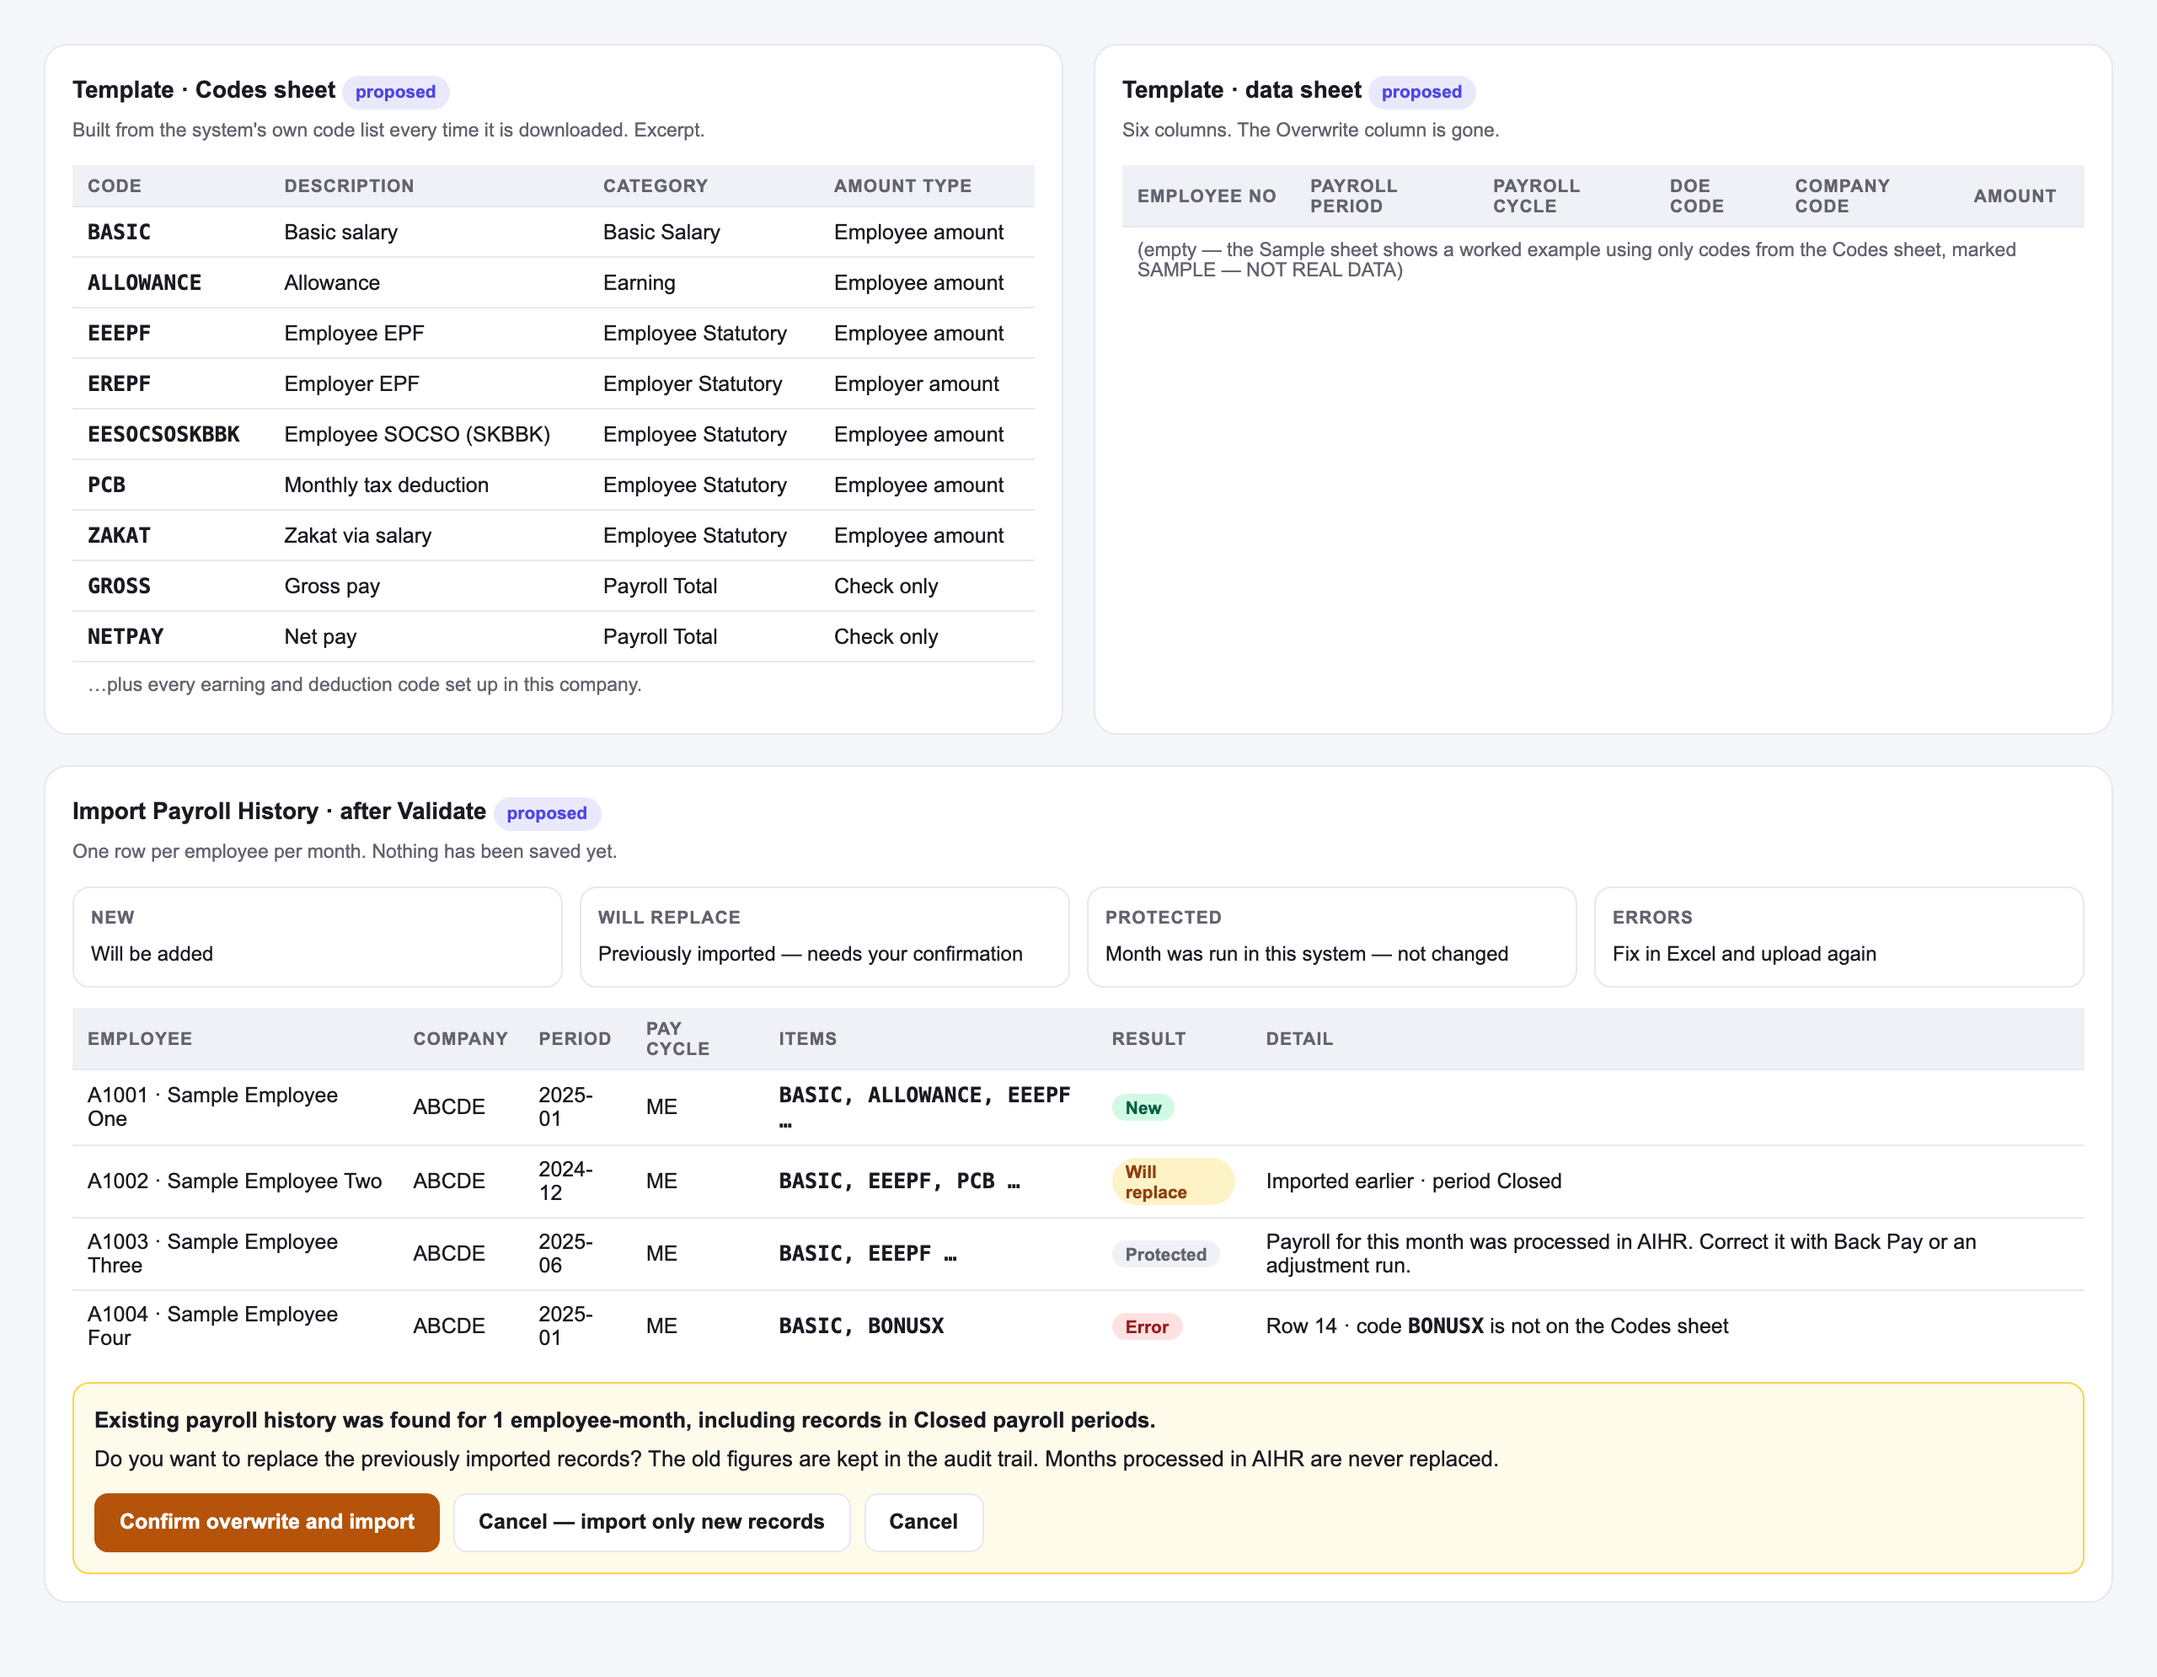
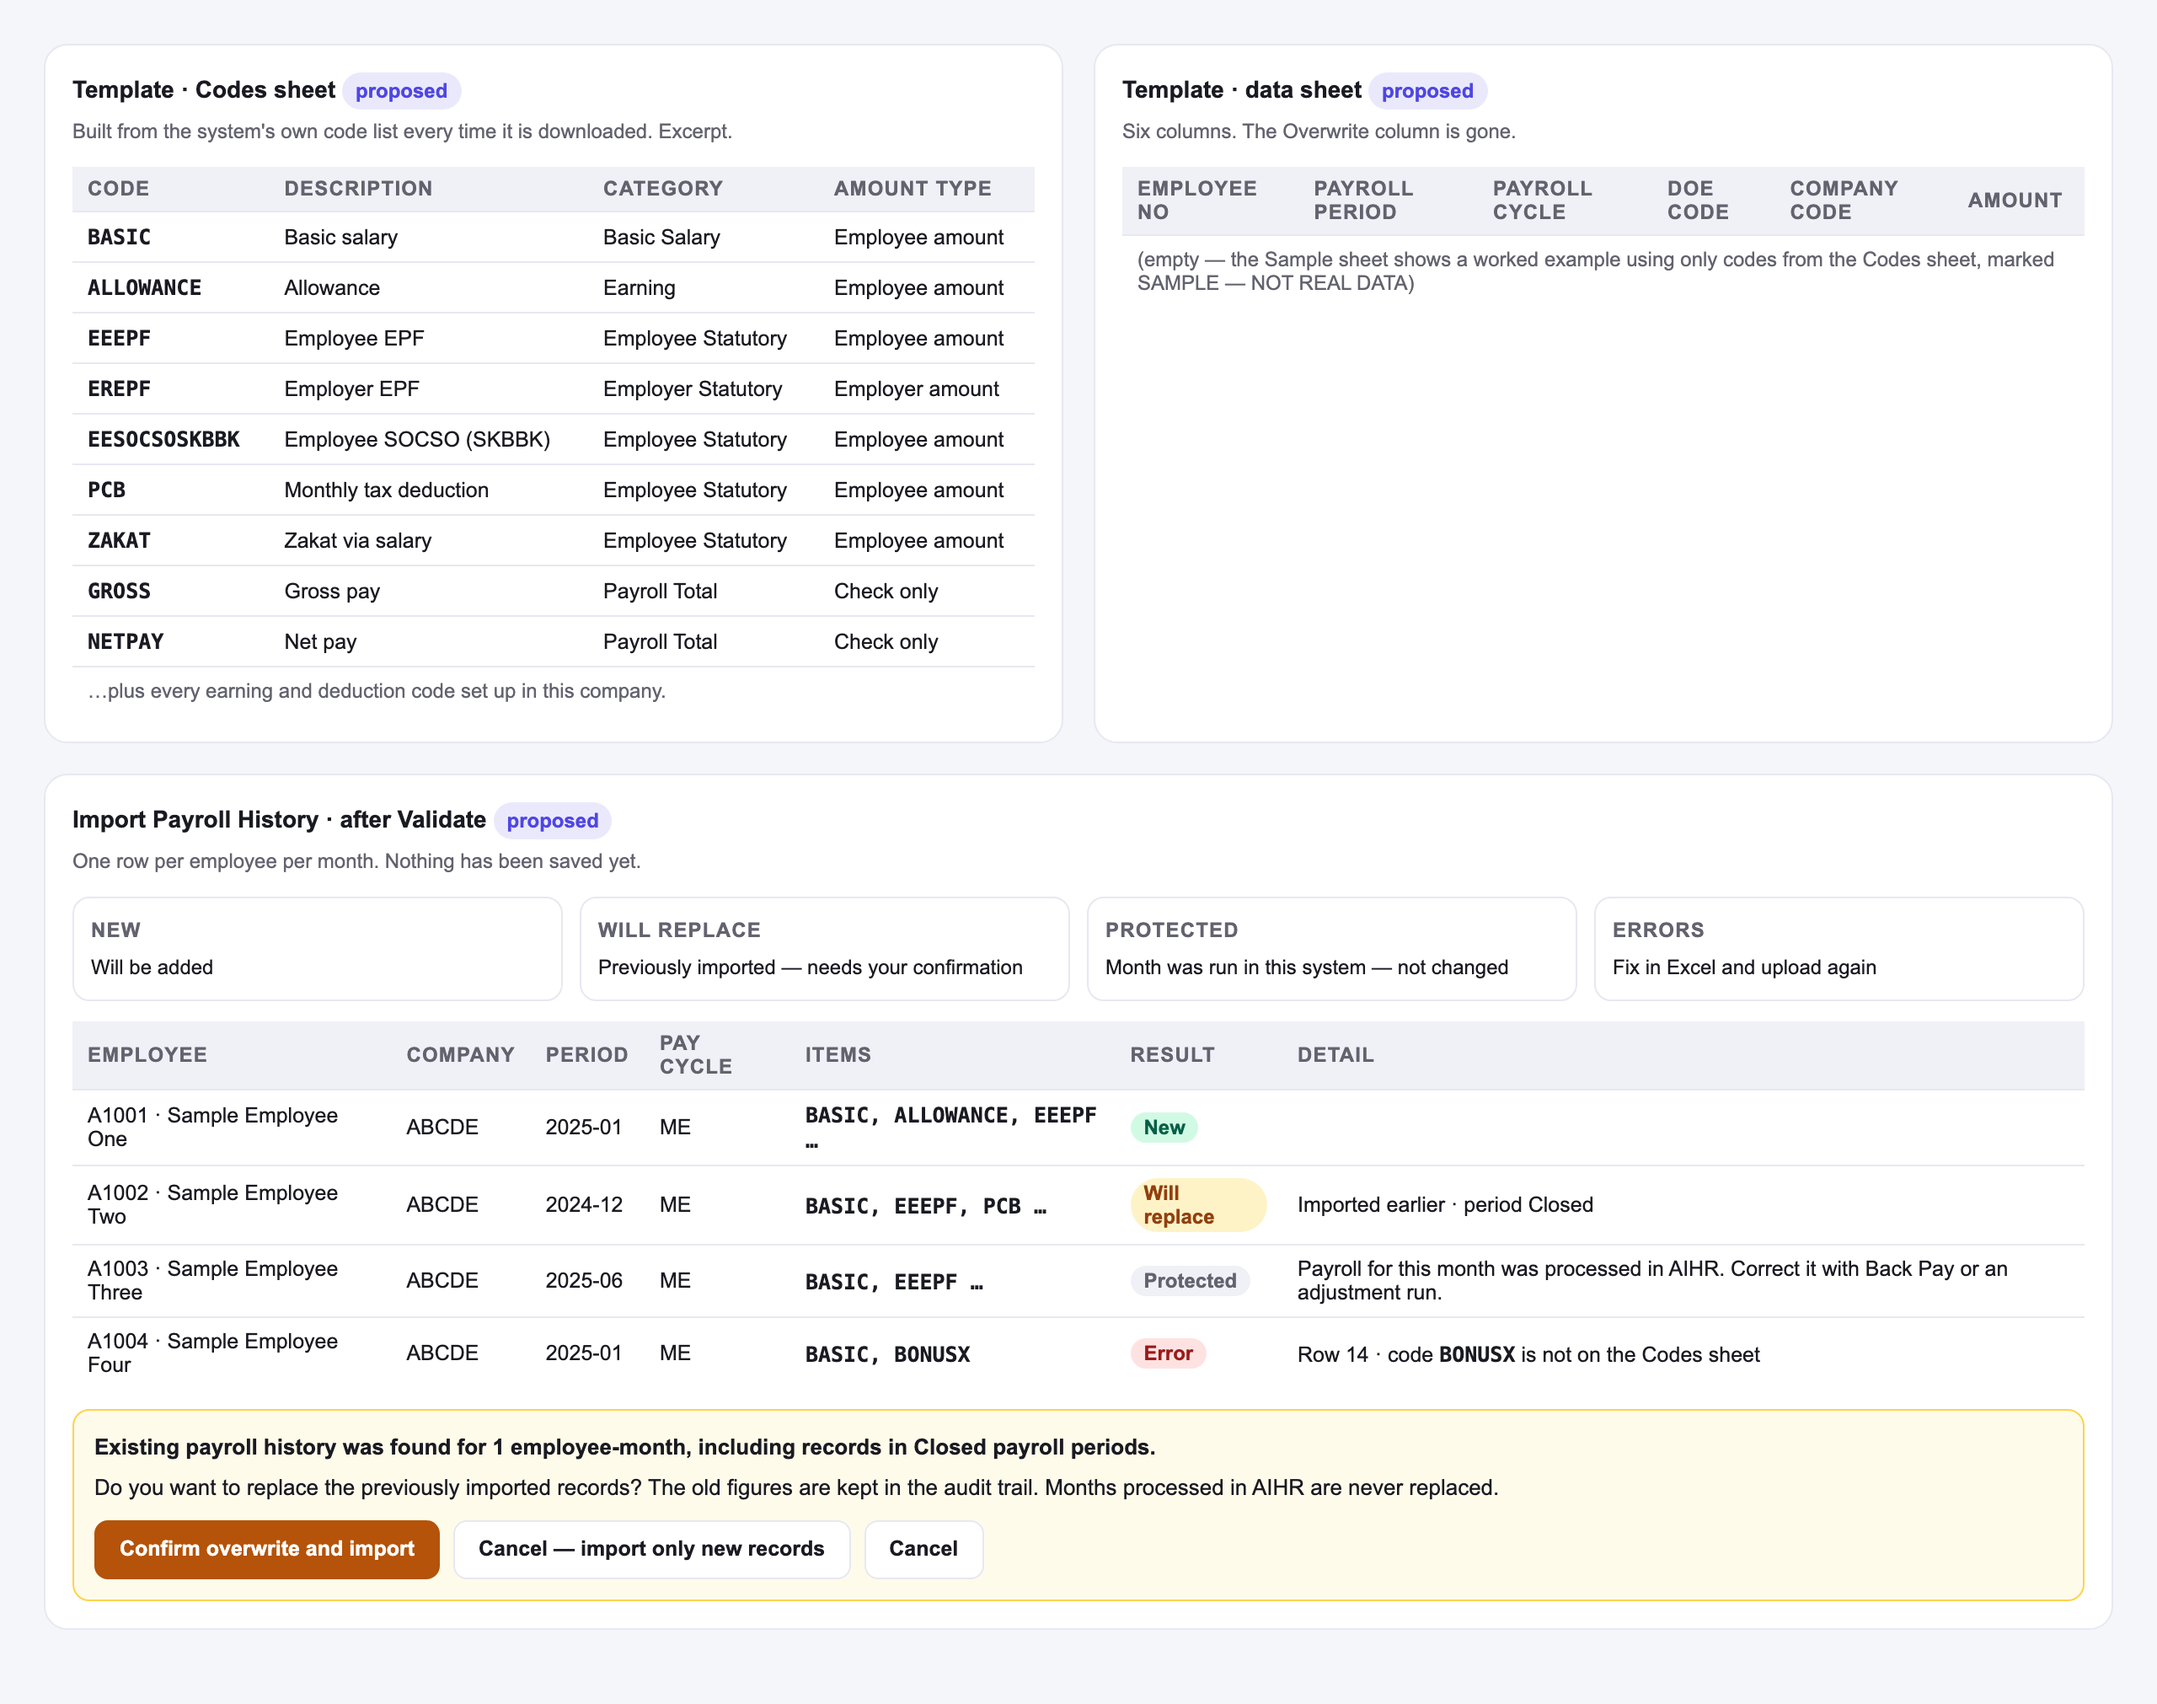
Raise mockup label sizes to the 12px floor

diff --git a/docs/mockups/d28501b8-history-import.html b/docs/mockups/d28501b8-history-import.html
@@ -11,13 +11,13 @@
        font:13px/1.5 ui-sans-serif,-apple-system,"Segoe UI",Roboto,Arial,sans-serif}
   .card{background:var(--card);border:1px solid var(--border);border-radius:14px;padding:16px;margin-bottom:18px}
   h2{font-size:14px;margin:0 0 4px}
-  .sub{font-size:11.5px;color:var(--mf);margin:0 0 12px}
+  .sub{font-size:12px;color:var(--mf);margin:0 0 12px}
   table{width:100%;border-collapse:collapse;font-size:12.5px}
-  th{text-align:left;font-size:10.5px;text-transform:uppercase;letter-spacing:.05em;color:var(--mf);
+  th{text-align:left;font-size:12px;text-transform:uppercase;letter-spacing:.05em;color:var(--mf);
      font-weight:600;padding:6px 9px;background:var(--muted)}
   td{padding:7px 9px;border-top:1px solid var(--border)}
   .mono{font-family:ui-monospace,Menlo,monospace;font-weight:600}
-  .chip{display:inline-block;padding:2px 8px;border-radius:999px;font-size:10.5px;font-weight:600}
+  .chip{display:inline-block;padding:2px 8px;border-radius:999px;font-size:12px;font-weight:600}
   .ok{background:#d1fae5;color:#065f46}
   .warn{background:#fef3c7;color:#92400e}
   .bad{background:#fee2e2;color:#991b1b}
@@ -26,7 +26,7 @@
   .two{display:grid;grid-template-columns:1fr 1fr;gap:18px}
   .tiles{display:grid;grid-template-columns:repeat(4,1fr);gap:10px;margin-bottom:12px}
   .tile{border:1px solid var(--border);border-radius:10px;padding:10px}
-  .tile .k{font-size:10.5px;text-transform:uppercase;letter-spacing:.05em;color:var(--mf);font-weight:600}
+  .tile .k{font-size:12px;text-transform:uppercase;letter-spacing:.05em;color:var(--mf);font-weight:600}
   .tile .v{font-size:12px;margin-top:4px}
   .banner{border:1px solid #fcd34d;background:#fffbeb;border-radius:10px;padding:12px;margin-top:12px}
   .banner b{display:block;margin-bottom:4px}
@@ -34,8 +34,8 @@
   .btn{padding:7px 14px;border-radius:8px;font-weight:600;font-size:12.5px;border:1px solid var(--border);background:#fff}
   .btn.p{background:#b45309;color:#fff;border-color:#b45309}
   .btn.s{background:var(--primary);color:#fff;border-color:var(--primary)}
-  .note{font-size:11.5px;color:var(--mf);margin-top:8px}
-  .tag{font-size:10px;color:var(--mf);float:right}
+  .note{font-size:12px;color:var(--mf);margin-top:8px}
+  .tag{font-size:12px;color:var(--mf);float:right}
 </style>
 
 <div class="two">
